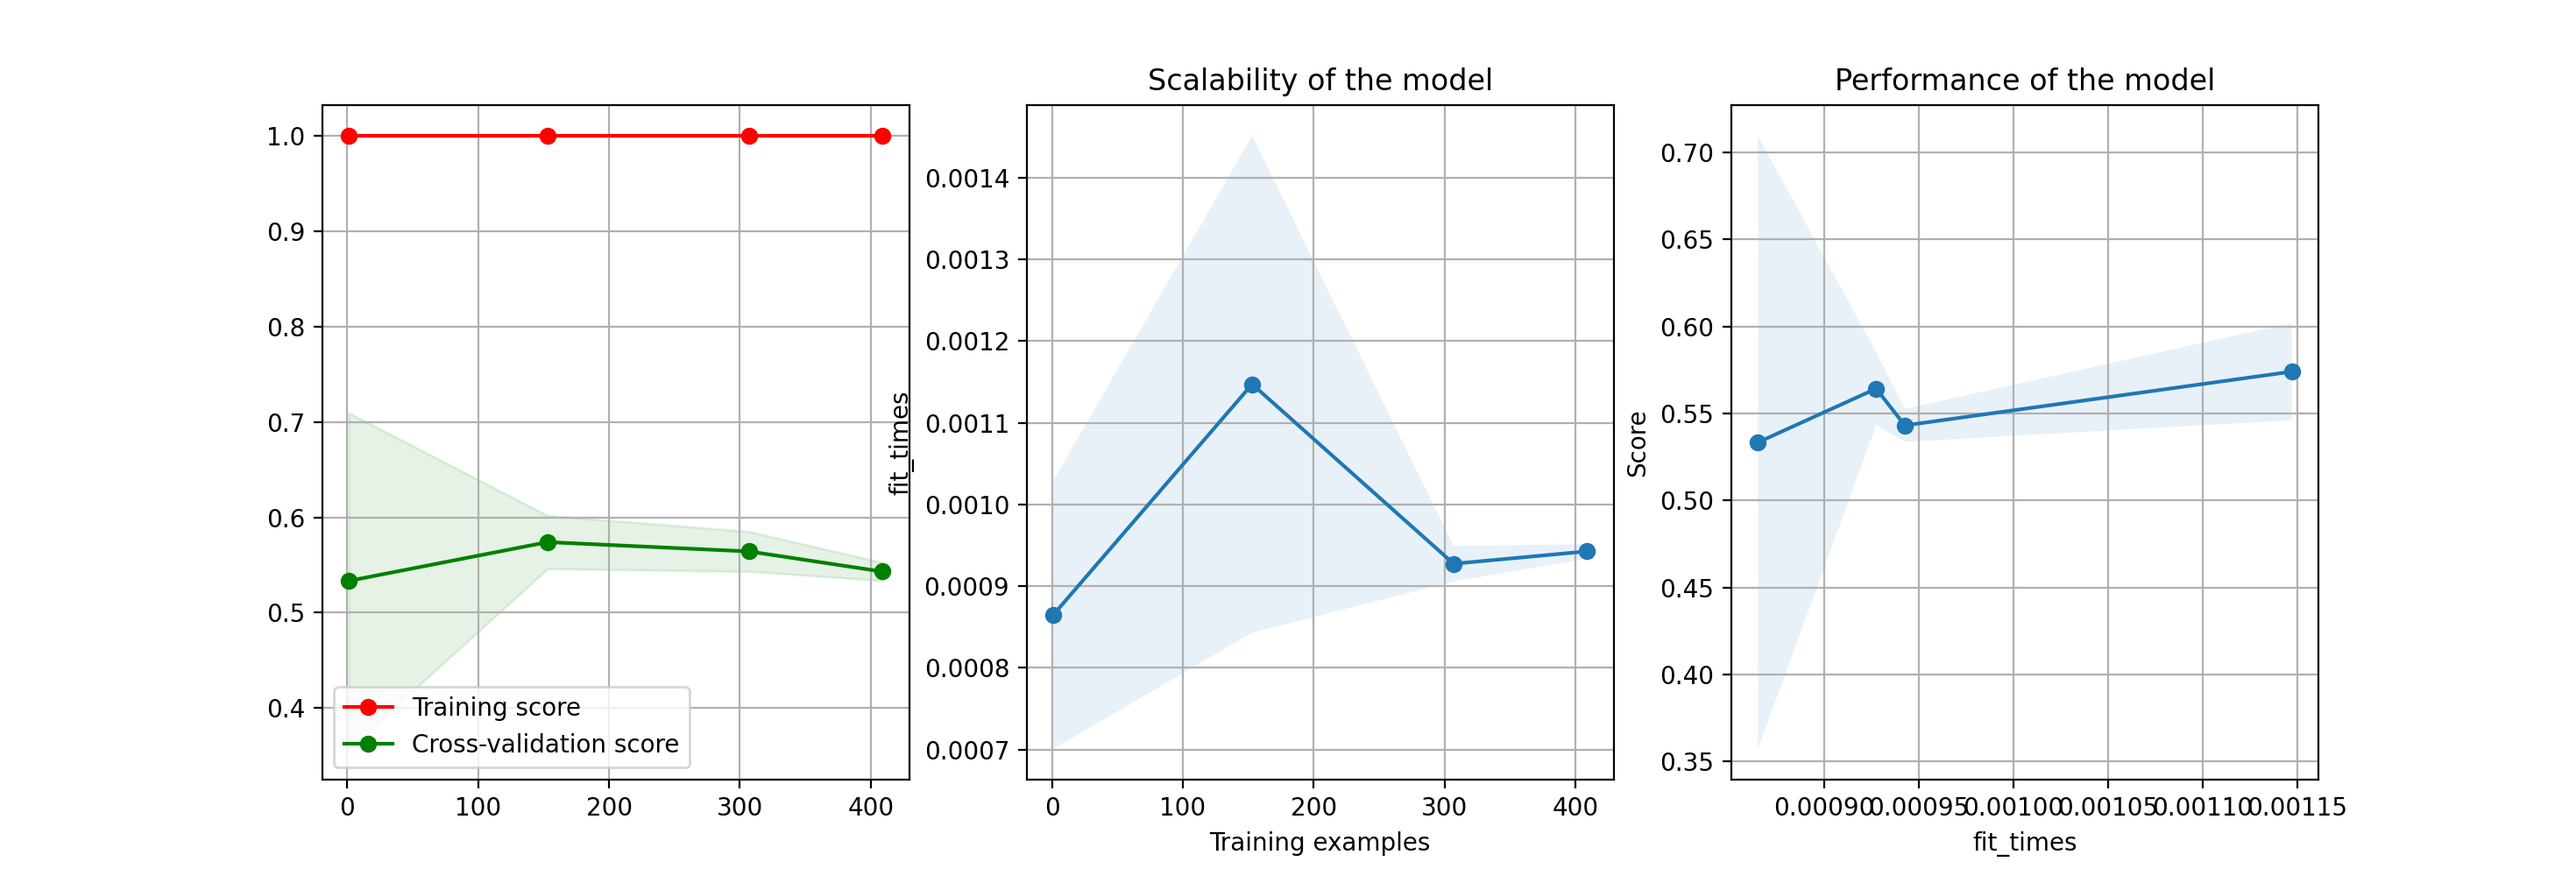
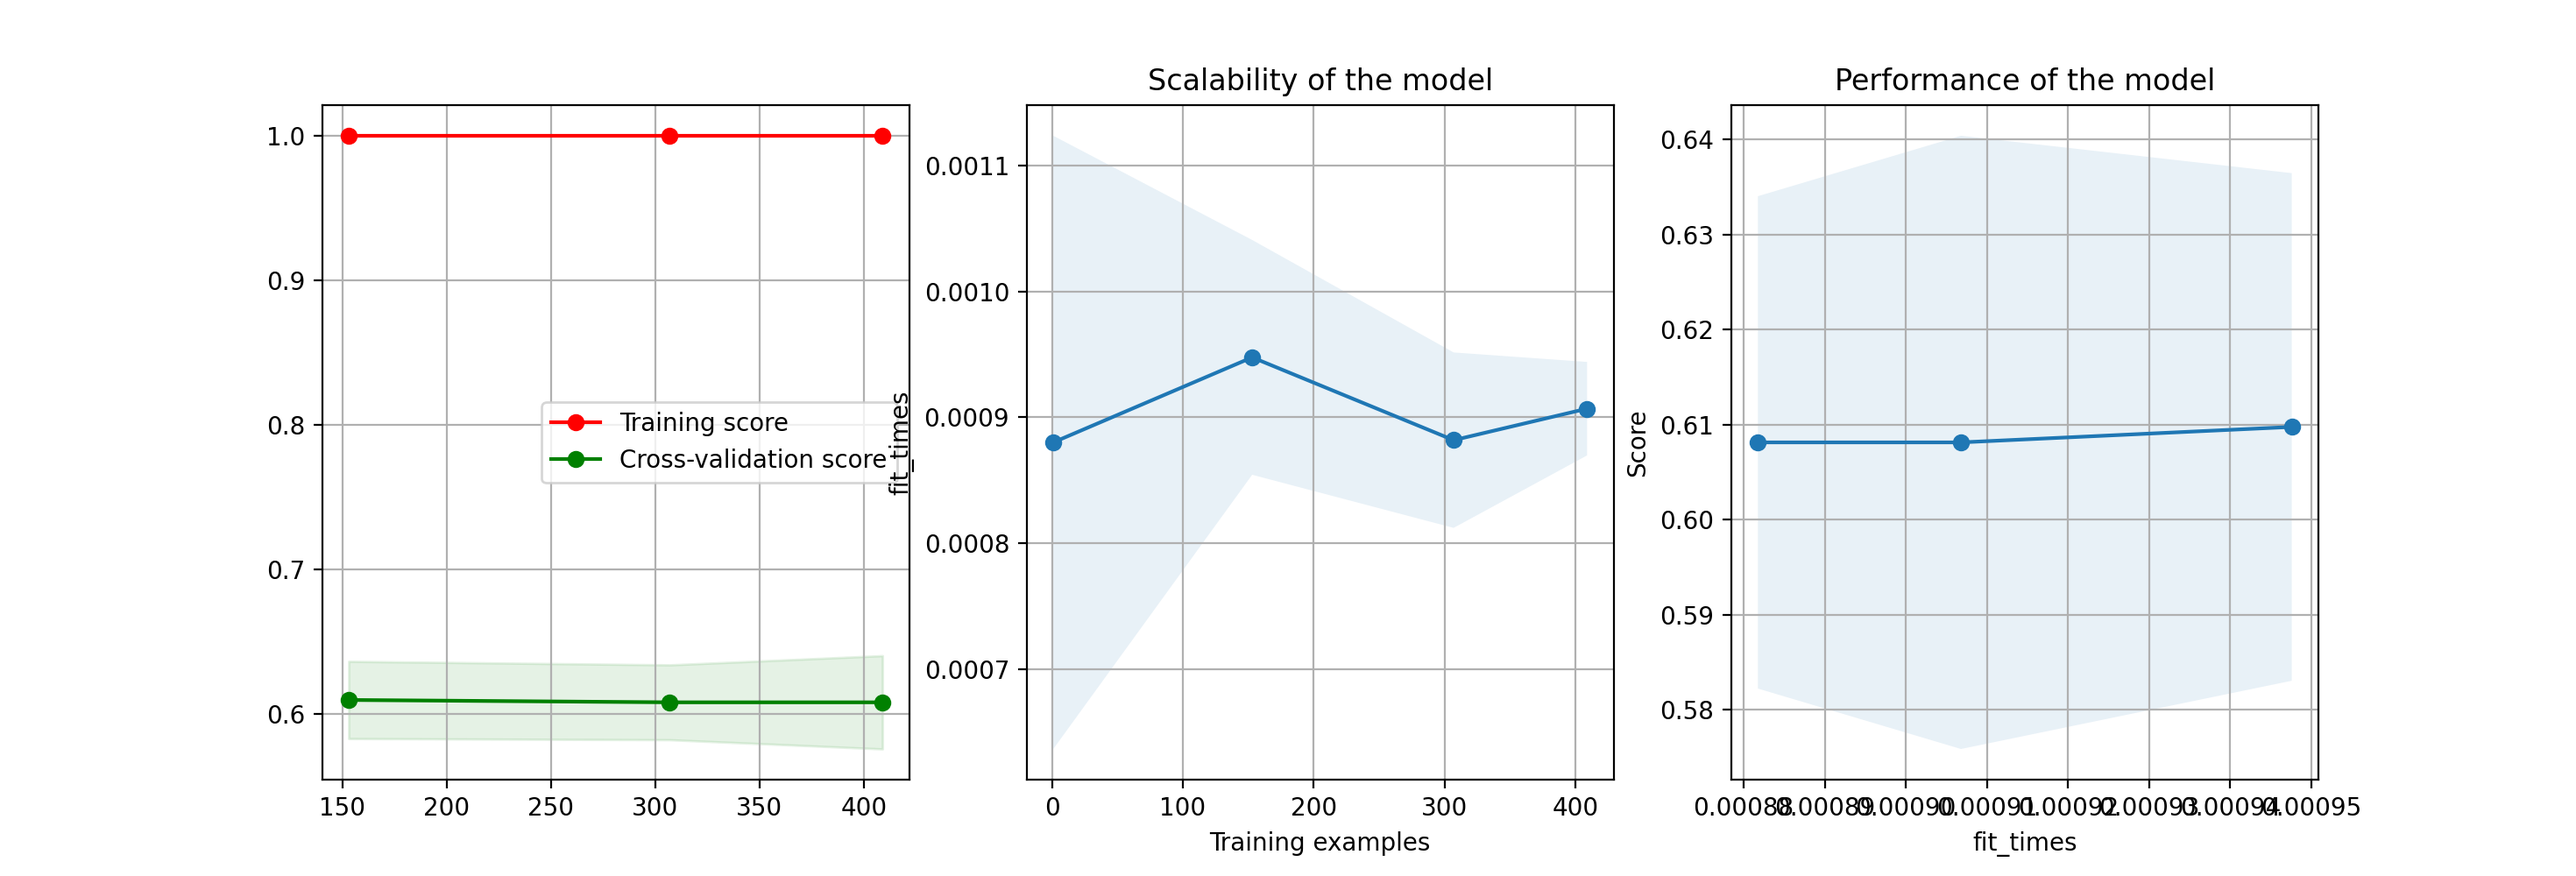
Adding init files

diff --git a/project_1/knn.py b/project_1/knn.py
@@ -9,7 +9,7 @@ from sklearn.metrics import accuracy_score
 # https://scikit-learn.org/stable/modules/generated/sklearn.neighbors.KNeighborsClassifier.html
 class KNNAnalysis:
     
-    def __init__(self, x_train, x_test, y_train, y_test):
+    def __init__(self, x_train, x_test, y_train, y_test, best_k=1):
         self.x_train = x_train
         self.x_test = x_test
         self.y_train = y_train
@@ -19,7 +19,7 @@ class KNNAnalysis:
             'weights': 'distance',
             'p': 2  # euclidean_distance
         }
-        self.knn_best = KNeighborsClassifier(n_neighbors=1, **self.common_attributes)
+        self.knn_best = KNeighborsClassifier(n_neighbors=best_k, **self.common_attributes)
     
     def k_performance(self):
         train_scores, test_scores = [], []
@@ -46,7 +46,8 @@ if __name__ == "__main__":
     tester1 = KNNAnalysis(x_train=shared.loan_x_train,
                           x_test=shared.loan_x_test,
                           y_train=shared.loan_y_train,
-                          y_test=shared.loan_y_test)
+                          y_test=shared.loan_y_test,
+                          best_k=5)
     
     tester1.plot_pruning()
     shared.learning_analysis(shared.loan_attr_data, shared.loan_status_data, tester1.knn_best)
